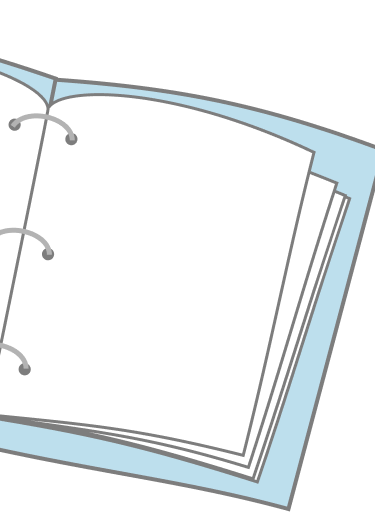
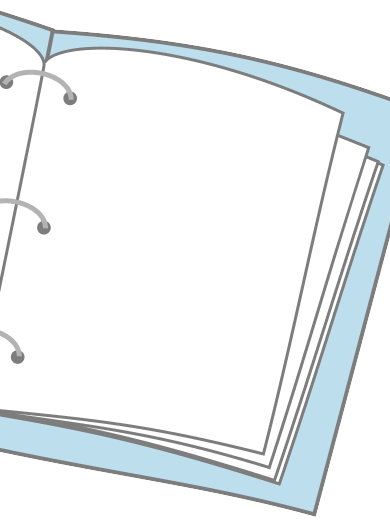
s_971001 feat:add nickName

Changed region(s): [[0.0, 0.0, 1.0, 0.9961], [0.176, 0.249, 0.2053, 0.2802]]

diff --git a/front/src/components/page/AlbumMyPage.jsx b/front/src/components/page/AlbumMyPage.jsx
@@ -31,6 +31,7 @@ import AlbumProfileImage from "./AlbumProfileImage";
 
 import "../page/AlbumPage.css";
 import albumFrame from "../images/albumFrame.png";
+import { fontSize } from "@mui/system";
 
 
 const AlbumMypage = () => {
@@ -42,7 +43,7 @@ const AlbumMypage = () => {
   const [openModal, setOpenModal] = useState(false);
   const [selectedImageIndex, setSelectedImageIndex] = useState(null);
   const [memoryarray, setMemoryarray] = useState([]);
-  const itemsPerPage = 6;
+  const itemsPerPage = 4;
   const navigate = useNavigate();
   const location = useLocation();
   const [albumPageMainImg, setAlbumPageMainImg] =
@@ -52,7 +53,7 @@ const AlbumMypage = () => {
   const [specificMemory, setSpecificMemory] = useState("");
   const [imageUrl, setImageUrl] = useState(userAltImage);
   const [albumOpenAt, setalbumOpenAt] = useState(undefined);
-
+  console.log(albumMemories);
   useEffect(() => {
     if (!sessionStorage.accessToken) {
       navigate("/");
@@ -173,9 +174,6 @@ const AlbumMypage = () => {
     });
   };
 
-  // 메모리 리스트 회전 각도 배열
-  const rotateArray = [5, -15, -30, 5, -8, 12];
-
   return (
     <div style={{ display: "flex", justifyContent: "center" }}>
       <StyledContainer>
@@ -184,8 +182,8 @@ const AlbumMypage = () => {
             <StyledTypography>
               {album.nickname} 의 {album.title}
             </StyledTypography>
-            <StyledTypography style={{ color: "white" }}>
-              <span class="memorysize">{memoryarray.length}장</span>의 메모리가
+            <StyledTypography>
+              <span class="strongLetter">{memoryarray.length}장</span>의 메모리가
               도착했어요!
             </StyledTypography>
             <StyledTypography>
@@ -193,20 +191,19 @@ const AlbumMypage = () => {
                 <div>졸업일자를 설정해주세요.</div>
               ) : (
                 <div style={{ color: "white", fontWeight: "bolder" }}>
-                  D -
-                  <span class="memorysize">
+                  D -{" "}
+                  <span class="strongLetter">
                     {remainDay === 0 ? (
-                      <span>day Congraduation!</span>
+                      <span> day Congraduation!</span>
                     ) : (
                       remainDay
                     )}
                   </span>
                 </div>
-              )}{" "}
+              )}
             </StyledTypography>
-            <StyledTypography>{album.graduationPlace} 졸업</StyledTypography>
           </div>
-          <div style={{ textAlign: "end", width: "30%" }}>
+          <div style={{ textAlign: "end", width: "25%" }}>
             <AlbumProfileImage
               imageUrl={imageUrl}
               setImageUrl={setImageUrl}
@@ -217,22 +214,44 @@ const AlbumMypage = () => {
           </div>
         </div>
         <div style={{ display: "flex", position: "relative" }}>
-          <img src={albumFrame} alt="album" style={{
-            width: "100%"
-            // height: "auto"
-          }} />
+          <img
+            src={albumFrame}
+            alt="album"
+            style={{
+              width: "100%",
+            }}
+          />
           <div class="memoryList">
             <Grid container spacing={2}>
               {albumMemories.slice(startIndex, endIndex).map((val, index) => (
-                <Grid item xs={4} key={index} style={{ marginLeft: "5%", marginBottom: "3%" }}>
-                  <StyledImg
-                    style={{ transform: `rotate(${rotateArray[index]}deg)` }}
-                    src={val.imageUrl}
-                    alt={`Memory ${startIndex + index + 1}`}
-                    onClick={() =>
-                      handleImageClick(val.memoryPk, startIndex + index)
-                    }
-                  />
+                <Grid
+                  item
+                  xs={5}
+                  key={index}
+                  style={{ marginLeft: "5%" }}
+                >
+                  <div style={{
+                    backgroundColor: "#ffe2e9",
+                    padding: "8% 8% 8% 8%",
+                    border: "1px solid darkgrey",
+                    display: "flex",
+                    alignItems: "center",
+                    flexDirection: "column",
+                    fontSize: "30px",
+                    width: "100%",
+                  }}>
+                    <StyledImg
+                      src={val.imageUrl}
+                      alt={`Memory ${startIndex + index + 1}`}
+                      style={{
+                        position: "relative"
+                      }}
+                      onClick={() =>
+                        handleImageClick(val.memoryPk, startIndex + index)
+                      }
+                    />
+                    <div style={{ overflow: "hidden", fontSize: "2.5vh", width: "100%", marginTop: "5%", textAlign: "center" }}>{val.nickName}</div>
+                  </div>
                 </Grid>
               ))}
             </Grid>

diff --git a/front/src/components/page/AlbumPage.jsx b/front/src/components/page/AlbumPage.jsx
@@ -36,7 +36,7 @@ import AlbumProfileImage from "./AlbumProfileImage";
 import Dday from "./Dday";
 
 import "../page/AlbumPage.css";
-import albumWhite from "../images/albumWhite.png";
+import albumFrame from "../images/albumFrame.png";
 
 const AlbumPage = () => {
   const params = useParams();
@@ -50,7 +50,7 @@ const AlbumPage = () => {
   const BACK_URL = "http://congraduation.me/backapi";
 
   const [memoryarray, setMemoryarray] = useState([]);
-  const itemsPerPage = 6;
+  const itemsPerPage = 4;
   const navigate = useNavigate();
   const location = useLocation();
 
@@ -115,7 +115,7 @@ const AlbumPage = () => {
     setCurrentPage(value);
   };
 
-  //6개씩 보이게 적용
+  //4개씩 보이게 적용
   const filteredAlbumMemories = albumMemories.filter(
     (val) => val.albumPk === params.PK
   ); // 메모리들의 albumPk 값이 url의 PK 값과 같은 것들을 담은 변수
@@ -187,9 +187,6 @@ const AlbumPage = () => {
 
   const remainDay = Math.ceil(timeGap / (1000 * 60 * 60 * 24));
 
-  // 메모리 리스트 회전 각도 배열
-  const rotateArray = [5, -15, -30, 5, -8, 12];
-
   // 유저 이미지 아이콘 버튼
   return (
     <div style={{ display: "flex", justifyContent: "center" }}>
@@ -199,25 +196,28 @@ const AlbumPage = () => {
             <StyledTypography>
               {album.nickname} 의 {album.title}
             </StyledTypography>
+            <StyledTypography style={{ color: "white" }}>
+              <span class="strongLetter">{memoryarray.length}장</span>의 메모리가
+              도착했어요!
+            </StyledTypography>
             <StyledTypography>
               {albumOpenAt === null ? (
                 <div>졸업일자를 설정해주세요.</div>
               ) : (
                 <div style={{ color: "white", fontWeight: "bolder" }}>
                   D -{" "}
-                  <span class="memorysize">
-                    {remainDay === 0 ? <div>Congraduation!</div> : remainDay}
+                  <span class="strongLetter">
+                    {remainDay === 0 ? (
+                      <span> day Congraduation!</span>
+                    ) : (
+                      remainDay
+                    )}
                   </span>
                 </div>
               )}
             </StyledTypography>
-            <StyledTypography style={{ color: "white" }}>
-              <span class="memorysize">{memoryarray.length}장</span>의 메모리가
-              도착했어요!
-            </StyledTypography>
-            <StyledTypography>{album.graduationPlace} 졸업</StyledTypography>
           </div>
-          <div style={{ textAlign: "end", width: "30%" }}>
+          <div style={{ textAlign: "end", width: "25%" }}>
             <AlbumProfileImage
               imageUrl={imageUrl}
               setImageUrl={setImageUrl}
@@ -230,11 +230,10 @@ const AlbumPage = () => {
 
         <div style={{ display: "flex", position: "relative" }}>
           <img
-            src={albumWhite}
+            src={albumFrame}
             alt="album"
             style={{
               width: "100%",
-              // height: "auto"
             }}
           />
           <div class="memoryList">
@@ -242,18 +241,32 @@ const AlbumPage = () => {
               {albumMemories.slice(startIndex, endIndex).map((val, index) => (
                 <Grid
                   item
-                  xs={4}
+                  xs={5}
                   key={index}
-                  style={{ marginLeft: "5%", marginBottom: "3%" }}
+                  style={{ marginLeft: "5%" }}
                 >
-                  <StyledImg
-                    style={{ transform: `rotate(${rotateArray[index]}deg)` }}
-                    src={val.imageUrl}
-                    alt={`Memory ${startIndex + index + 1}`}
-                    onClick={() =>
-                      handleImageClick(val.memoryPk, startIndex + index)
-                    }
-                  />
+                  <div style={{
+                    backgroundColor: "#ffe2e9",
+                    padding: "8% 8% 8% 8%",
+                    border: "1px solid darkgrey",
+                    display: "flex",
+                    alignItems: "center",
+                    flexDirection: "column",
+                    fontSize: "30px",
+                    width: "100%"
+                  }}>
+                    <StyledImg
+                      src={val.imageUrl}
+                      alt={`Memory ${startIndex + index + 1}`}
+                      style={{
+                        position: "relative"
+                      }}
+                      onClick={() =>
+                        handleImageClick(val.memoryPk, startIndex + index)
+                      }
+                    />
+                    <div style={{ overflow: "hidden", fontSize: "2.5vh", width: "100%", marginTop: "5%", textAlign: "center" }}>{val.nickName}</div>
+                  </div>
                 </Grid>
               ))}
             </Grid>

diff --git a/front/src/index.css b/front/src/index.css
@@ -6,3 +6,18 @@ body,
   /* height: 100%; */
   margin: 0px;
 }
+
+/* 폰트 */
+@font-face {
+  font-family: 'TheJamsil5Bold';  
+  src: url('https://cdn.jsdelivr.net/gh/projectnoonnu/noonfonts_2302_01@1.0/TheJamsil5Bold.woff2') format('woff2');
+  font-weight: 700;
+  font-style: normal;
+}
+
+@font-face {
+  font-family: 'TheJamsil2Light';
+  src: url('https://cdn.jsdelivr.net/gh/projectnoonnu/noonfonts_2302_01@1.0/TheJamsil2Light.woff2') format('woff2');
+  font-weight: 300;
+  font-style: normal;
+}

diff --git a/front/src/components/styledComponents/StyledTypography.jsx b/front/src/components/styledComponents/StyledTypography.jsx
@@ -1,11 +1,13 @@
 import {styled } from '@mui/material/styles';
 import { Typography } from '@mui/material';
+import '../../index.css';
 
 const StyledTypography = styled(Typography)(({ theme }) => ({
     textAlign: 'left',
-    fontSize: '20px',
-    marginTop: theme.spacing(1),
-    color: 'white'
+    fontSize: '3vh',
+    color: 'white',
+    fontFamily: 'TheJamsil2Light',
+    fontWeight: 'bold',
 }));
 
 export default StyledTypography;

diff --git a/front/src/components/page/AlbumPage.css b/front/src/components/page/AlbumPage.css
@@ -1,6 +1,6 @@
 /* 강조 */
-.memorysize {
-  color: white;
+.strongLetter {
+  color: aqua;
   font-weight: bolder;
 }
 
@@ -14,11 +14,11 @@
 /* 메모리 리스트 */
 .memoryList {
   position: absolute;
-  z-index: 2;
-  width: 68%;
+  z-index: 1;
+  width: 66%;
   transform: rotate(13deg);
-  top: 23.5%;
-  left: 19%;
+  top: 18%;
+  left: 10.5%;
   transform: rotate(12.5deg);
   /* border: 10px solid pink; */
   /* margin: 5vh; */
